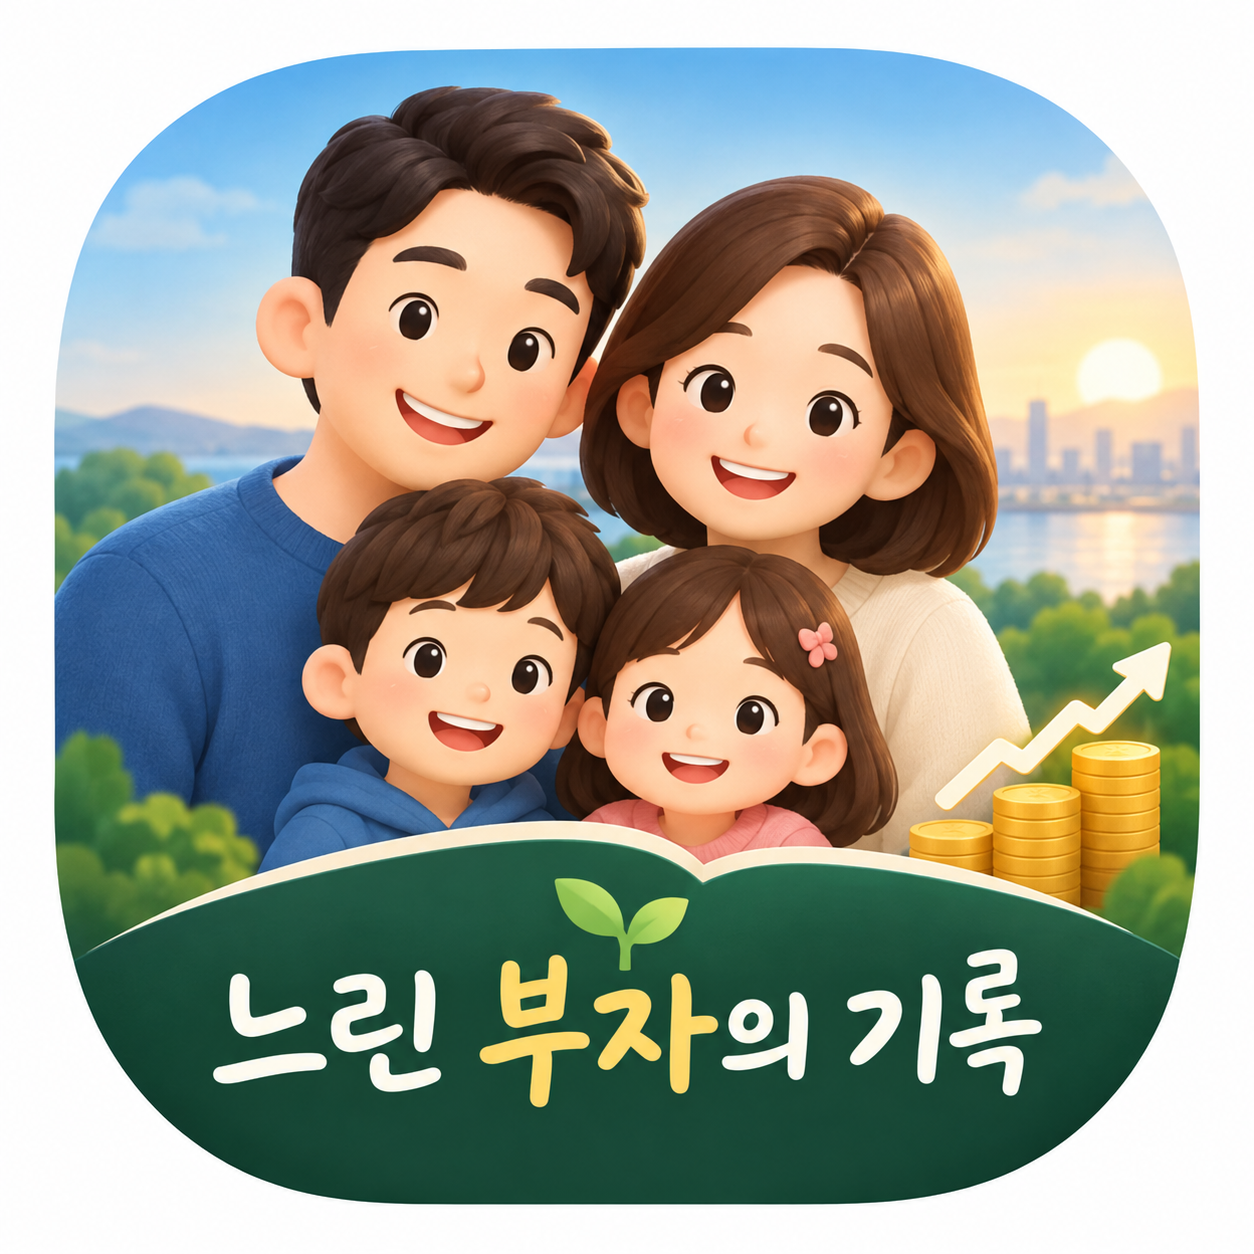
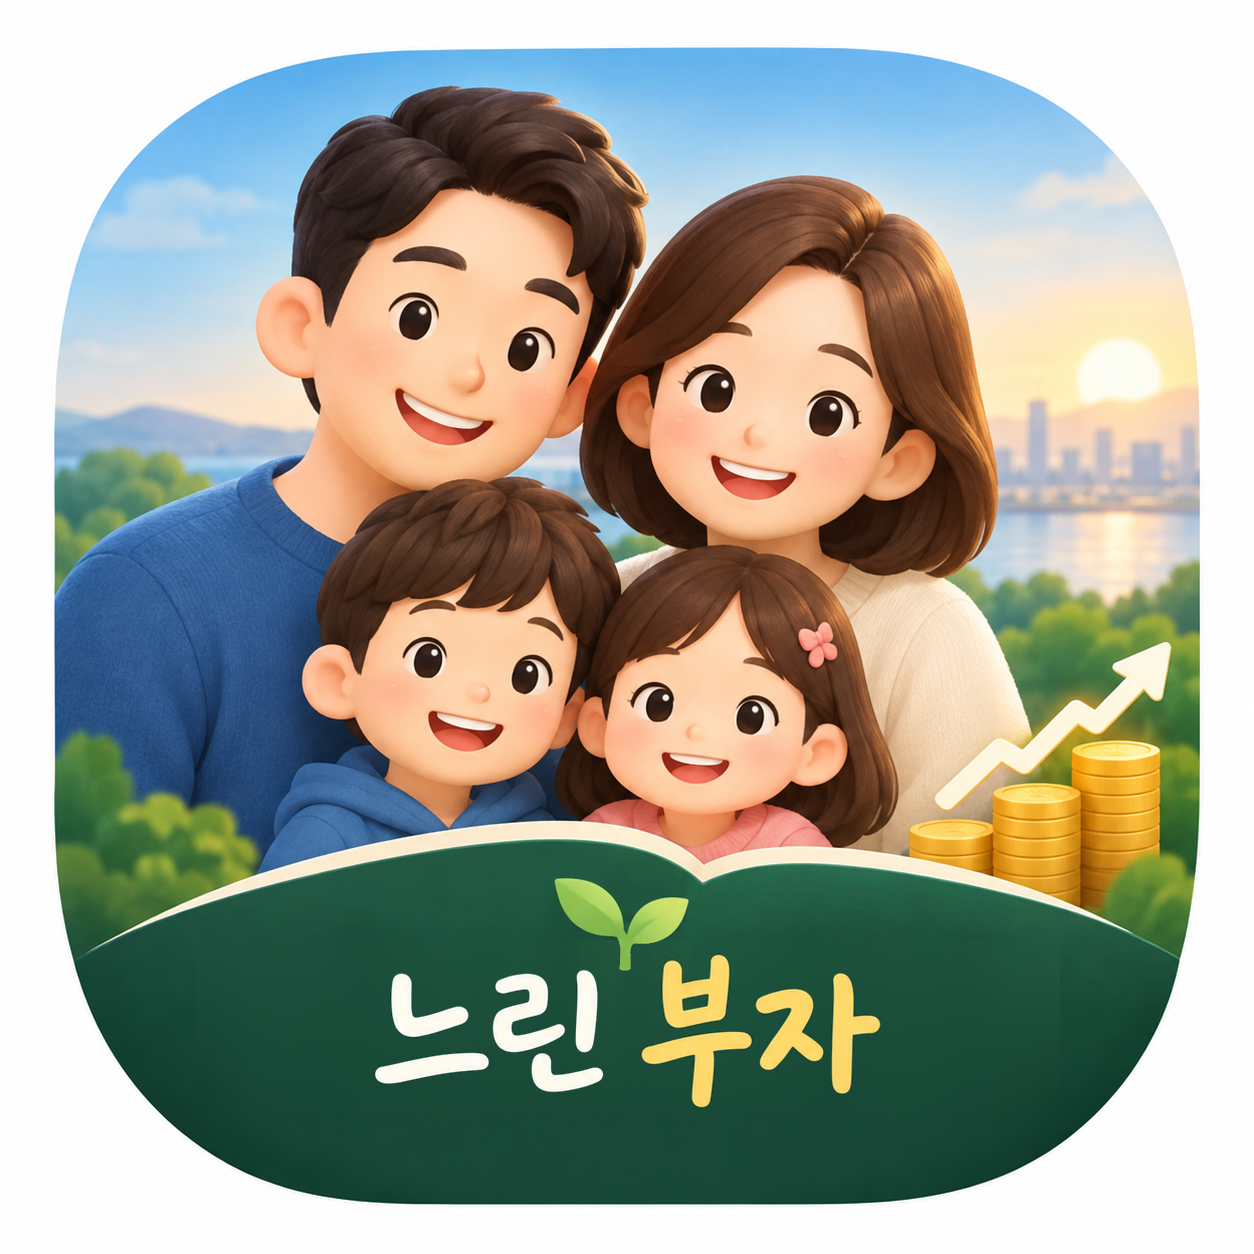
184: 앱 이름을 "느린 부자" 로 — "느린" 시리즈의 첫째
사용자 결정 (2026-09-24). 앞으로 만드는 앱을 "느린" 으로 묶는다 —
느린 부자 · 느린 여백 · 느린 나이테. 셋 다 "~의 기록" 이 붙으면 시리즈가
아니라 같은 이름 셋이 되므로 꼬리를 뗀다.

- 표시 이름(CFBundleDisplayName) · 앱 안 다섯 자리(진단 정보 · 문의 메일
  제목 · 생체 인증 안내 · 월간 회고 카드 · 1페이지 바닥) · 문서 열넷
- 번들 ID(com.helpnara.slowrich)와 식별자(SlowRich)는 그대로 둔다.
  바꾸면 iCloud 컨테이너가 남남이 되고 TestFlight 설치본이 갈라진다
- 08-feedback 의 지난 항목은 옛 이름 그대로 — 그때의 기록이다

아이콘은 제목이 그림으로 박혀 있는데 그 서체가 없어서, 이미 그려진
"느린 부자" 글자를 오려 가운데로 옮기고 "의 기록" 자리를 배너 초록으로
메웠다. 절차와 좌표는 Tools/retitle-icon.py, 처음 받은 그림은
Tools/icon-source-original.png 로 남긴다. 일곱 자가 네 자가 되어
120px 미리보기에서도 글자가 읽힌다.

제출 전 사용자 몫 둘을 출시 일정 블록에 올렸다 — 키프리스 상표 재검색
(09-11 검색은 옛 이름 기준), App Store Connect 앱 이름 변경.

Claude-Session: https://claude.ai/code/session_013o4pP25wnL1hHFb6SK28oN

Changed region(s): [[0.1555, 0.7464, 0.8397, 0.9019]]

diff --git a/App/Services/AppLock.swift b/App/Services/AppLock.swift
@@ -131,7 +131,7 @@ final class AppLock {
         case .passcodeNotSet:
             return "기기에 암호가 설정돼 있지 않아 본인 확인을 할 수 없습니다."
         case .biometryNotAvailable:
-            return "\(biometryLabel) 를 쓸 수 없습니다. 설정 → 느린 부자의 기록 에서 권한을 확인해 주세요."
+            return "\(biometryLabel) 를 쓸 수 없습니다. 설정 → 느린 부자 에서 권한을 확인해 주세요."
         case .authenticationFailed:
             return "확인하지 못했습니다. 다시 시도해 주세요."
         default:

diff --git a/App/Features/Dashboard/TrajectoryChart.swift b/App/Features/Dashboard/TrajectoryChart.swift
@@ -10,7 +10,7 @@ import SwiftUI
 ///
 /// **Y축은 선형이고 0에서 시작한다** (docs/08-feedback.md 31번).
 /// 한때 로그였는데, 그 축은 일정 비율 성장을 **직선으로 펴 버린다** —
-/// `느린 부자의 기록` 이라는 이름 그대로 느림이 쌓여 휘는 순간을 보려고 만든
+/// `느린 부자` 라는 이름 그대로 느림이 쌓여 휘는 순간을 보려고 만든
 /// 그래프가 정작 그 휘어짐을 지우고 있었다.
 ///
 /// 선형의 값은 대신 **앞 10년이 바닥에 눌리는 것**이다. 은퇴까지 63억을

diff --git a/App/Services/DiagnosticReport.swift b/App/Services/DiagnosticReport.swift
@@ -17,7 +17,7 @@ enum DiagnosticReport {
     static func build(in context: NSManagedObjectContext) async -> String {
         var lines: [String] = []
         let device = UIDevice.current
-        lines.append("느린 부자의 기록 \(MoreView.versionText)")
+        lines.append("느린 부자 \(MoreView.versionText)")
         lines.append("iOS \(device.systemVersion) · \(device.model) · \(Locale.current.identifier) · \(TimeZone.current.identifier)")
         lines.append("찍은 때: \(Date.now.formatted(date: .abbreviated, time: .shortened))")
         lines.append("")

diff --git a/App/Features/Settings/OnePagerSettingsView.swift b/App/Features/Settings/OnePagerSettingsView.swift
@@ -24,7 +24,7 @@ struct OnePagerSettingsView: View {
                 } header: {
                     Text("문서 제목")
                 } footer: {
-                    Text("1페이지 맨 위와 PDF 파일 이름에 쓰입니다. 앱 이름(`느린 부자의 기록`)과는 다른 값입니다 — 이건 문서의 제목입니다.")
+                    Text("1페이지 맨 위와 PDF 파일 이름에 쓰입니다. 앱 이름(`느린 부자`)과는 다른 값입니다 — 이건 문서의 제목입니다.")
                 }
 
                 Section {

diff --git a/App/Services/SupportContact.swift b/App/Services/SupportContact.swift
@@ -17,7 +17,7 @@ enum SupportContact {
         components.scheme = "mailto"
         components.path = email
         components.queryItems = [
-            URLQueryItem(name: "subject", value: "느린 부자의 기록 \(version) 문의"),
+            URLQueryItem(name: "subject", value: "느린 부자 \(version) 문의"),
             URLQueryItem(name: "body", value: "\n\n— 앱 \(version) · iOS \(ProcessInfo.processInfo.operatingSystemVersionString)"),
         ]
         return components.url

diff --git a/App/Features/Settings/OnePagerView.swift b/App/Features/Settings/OnePagerView.swift
@@ -515,7 +515,7 @@ struct OnePagerView: View {
                     .foregroundStyle(Paper.faint)
                 Spacer(minLength: 6)
                 // 남에게 건네는 종이에 앱 이름 한 줄 (docs/10 §3-5).
-                Text("느린 부자의 기록")
+                Text("느린 부자")
                     .font(.system(size: 6, weight: .medium))
                     .foregroundStyle(Paper.muted)
             }

diff --git a/App/Features/History/RetrospectiveView.swift b/App/Features/History/RetrospectiveView.swift
@@ -297,7 +297,7 @@ struct RetrospectiveCard: View {
     private var signature: some View {
         HStack {
             Spacer()
-            Text("느린 부자의 기록")
+            Text("느린 부자")
                 .font(.scaled(9, weight: .medium))
                 .foregroundStyle(muted)
         }

diff --git a/Tools/retitle-icon.py b/Tools/retitle-icon.py
@@ -1,0 +1,116 @@
+#!/usr/bin/env python3
+"""아이콘 그림에 박힌 제목을 `느린 부자의 기록` → `느린 부자` 로 고친다.
+
+    python3 Tools/retitle-icon.py
+
+`Tools/icon-source-original.png`(처음 받은 그림) 을 읽어
+`Tools/icon-source.png` 로 쓴다. 그 다음 `Tools/make-icon.py` 가 앱 아이콘을 굽는다.
+
+── 왜 이렇게 했나 ───────────────────────────────────────────────
+2026-09-24 에 앱 이름을 `느린 부자` 로 줄였는데 (`느린` 시리즈), 아이콘 띠에
+제목이 그림으로 박혀 있었다. 같은 서체·같은 굵기로 다시 쓰려면 원본 서체가
+필요한데 그것이 없다. 그래서 **이미 그려져 있는 `느린 부자` 글자를 그대로
+오려서 가운데로 옮기고, `의 기록` 이 있던 자리는 배너 초록으로 메웠다.**
+서체가 바뀌지 않는 유일한 방법이다.
+
+── 하는 일 ─────────────────────────────────────────────────────
+1. 글자 줄(y 940~1112)에서 `느린 부자`(x 200~720) 를 조각으로 떠 둔다.
+   초록이 아닌 픽셀만 고르므로 배경은 딸려오지 않는다.
+2. 글자 줄 전체(x 195~1060)를 배너 초록으로 덮는다. 색은 줄 위아래의
+   깨끗한 줄을 **가로로 뭉갠 뒤 세로로 선형 보간**해서 만든다 — 한 줄의
+   중앙값으로 평평하게 칠하면 덮은 자리가 네모로 비치고, 한 픽셀씩 그대로
+   쓰면 잡티가 세로줄로 번진다. 둘 다 실제로 겪고 나서 이 방법으로 왔다.
+3. 조각을 오른쪽으로 162px 옮겨 붙인다. 옮긴 뒤 글자 가운데가 배너 가운데
+   (x 627) 에 온다. **같은 줄로 옮기기 때문에** 배경의 세로 그라데이션이
+   그대로 맞아 이음매가 보이지 않는다.
+4. 새싹은 원래 제목 전체의 가운데에 있었다 — 새 제목도 같은 가운데라서
+   **움직이지 않는다.** 다만 줄기가 글자 줄까지 내려와 2번에서 지워지므로
+   제자리에 다시 그린다 (밝은 초록만 골라서).
+
+── 숫자를 고쳐야 한다면 ─────────────────────────────────────────
+원본 그림이 바뀌면 아래 좌표는 전부 무효다. 그때는 글자 덩어리의 x 범위를
+다시 재고 (밝은 픽셀의 열 분포를 보면 덩어리가 갈라진다) 여기에 적는다.
+
+의존성: Pillow, numpy
+"""
+
+from pathlib import Path
+
+import numpy as np
+from PIL import Image
+
+SOURCE = Path("Tools/icon-source-original.png")
+OUTPUT = Path("Tools/icon-source.png")
+
+TOP, BOT = 940, 1112        # 글자 잉크가 있는 줄 (실제 잉크는 949~1107)
+LEFT, RIGHT = 195, 1060     # 지울 가로 범위 — `느` 왼쪽부터 `록` 오른쪽까지
+KEEP_L, KEEP_R = 200, 720   # 남길 조각 = `느린 부자` (`자`와 `의` 사이 골짜기가 718~721)
+SHIFT = 162                 # 오른쪽으로 옮길 양 = (627 - (213+718)/2) 의 반올림
+STEM = (606, 672, 976)      # 제자리에 다시 그릴 새싹 줄기 (x 시작, x 끝, y 끝)
+SMOOTH = 41                 # 배경 기준 줄을 가로로 뭉갤 폭
+
+
+def main() -> None:
+    image = np.array(Image.open(SOURCE).convert("RGB")).astype(np.int16)
+    red, green = image[:, :, 0], image[:, :, 1]
+    is_background = green > red + 25            # 배너 초록 + 새싹 초록
+    is_sprout = (green > 130) & (green > red + 30)   # 새싹 초록만
+    is_letter = ~is_background
+
+    assert is_letter[TOP:BOT, LEFT - 25:LEFT].sum() == 0, "지울 범위 왼쪽 바로 밖에 글자가 있다"
+    assert is_letter[TOP:BOT, RIGHT:RIGHT + 25].sum() == 0, "지울 범위 오른쪽 바로 밖에 글자가 있다"
+
+    patch = image[TOP:BOT, KEEP_L:KEEP_R].copy()
+    mask = is_letter[TOP:BOT, KEEP_L:KEEP_R]
+    grown = mask.copy()                         # 안티에일리어싱 자락 한 픽셀까지
+    grown[1:, :] |= mask[:-1, :]
+    grown[:-1, :] |= mask[1:, :]
+    grown[:, 1:] |= mask[:, :-1]
+    grown[:, :-1] |= mask[:, 1:]
+
+    stem_l, stem_r, stem_bot = STEM
+    stem = image[TOP:stem_bot, stem_l:stem_r].copy()
+    stem_mask = is_sprout[TOP:stem_bot, stem_l:stem_r]
+
+    top_reference = background_row(image, is_background, is_sprout, TOP - 9)
+    bottom_reference = background_row(image, is_background, is_sprout, BOT + 5)
+    span = (BOT + 7) - (TOP - 7)
+    for y in range(TOP, BOT):
+        t = (y - (TOP - 7)) / span
+        image[y, LEFT:RIGHT] = np.rint(top_reference * (1 - t) + bottom_reference * t)
+
+    image[TOP:BOT, KEEP_L + SHIFT:KEEP_R + SHIFT][grown] = patch[grown]
+    image[TOP:stem_bot, stem_l:stem_r][stem_mask] = stem[stem_mask]
+
+    Image.fromarray(image.astype(np.uint8)).save(OUTPUT)
+    print(f"{OUTPUT} 를 썼습니다 — 이어서 `python3 Tools/make-icon.py`")
+
+
+def background_row(image, is_background, is_sprout, start):
+    """`start` 부터 다섯 줄의 배너 색을 뽑아 가로로 뭉갠다.
+
+    새싹이 걸린 칸은 그 줄의 중앙값으로 바꾼다 — 안 그러면 밝은 초록이
+    아래로 번져 세로줄이 된다.
+    """
+    width = RIGHT - LEFT
+    total = np.zeros((width, 3))
+    count = np.zeros((width, 1))
+    for y in range(start, start + 5):
+        usable = (is_background[y, LEFT:RIGHT] & ~is_sprout[y, LEFT:RIGHT])[:, None]
+        total += image[y, LEFT:RIGHT] * usable
+        count += usable
+    seen = count[:, 0] > 0
+    middle = np.median(total[seen] / count[seen], axis=0)
+    row = np.where(count > 0, total / np.maximum(count, 1), middle)
+
+    kernel = np.ones(SMOOTH) / SMOOTH
+    pad = SMOOTH // 2
+    return np.stack(
+        [np.convolve(np.pad(row[:, c], pad, mode="edge"), kernel, "same")[pad:-pad]
+         for c in range(3)],
+        axis=1,
+    )
+
+
+if __name__ == "__main__":
+    main()

diff --git a/Tools/site/build.py b/Tools/site/build.py
@@ -21,7 +21,7 @@ ROOT = Path(__file__).resolve().parents[2]
 SOURCE = ROOT / "docs" / "privacy-policy.md"
 OUT = Path(sys.argv[1] if len(sys.argv) > 1 else ROOT / "_site")
 
-APP_NAME = "느린 부자의 기록"
+APP_NAME = "느린 부자"
 SUPPORT_EMAIL = "kyunglagkwon@gmail.com"
 ISSUES_URL = "https://github.com/helpnara/Asset-management/issues"
 

diff --git a/docs/10-store-strategy.md b/docs/10-store-strategy.md
@@ -75,7 +75,7 @@ App Store 의 순위는 세 가지가 있고, 우리가 노릴 수 있는 것과
 | 2 | **1인 · 2인 사용자도 자연스럽게** | "우리 가족 노후자금 준비" 는 계획 제목이라 바꿀 수 있지만, 곳곳의 "가족" 이 혼자 쓰는 사람을 밀어낸다. 구성원 하나면 "가족 총자산" 을 "총자산" 으로 |
 | 3 | **위젯** — 잠금 화면 · 홈 화면 | "이번 주 적었나" · 계획선 대비 · 연속 주. 위젯은 재방문율을 올리고 에디터가 좋아한다. 서버가 없어도 된다 (App Group 으로 자료 공유) |
 | 4 | **리뷰 요청의 타이밍** | 4주 연속 달성 · 억 단위 넘김 같은 **축하 화면 직후**에 `SKStoreReviewController`. 아무 때나 띄우면 별 셋, 기쁜 순간에 띄우면 별 다섯 |
-| 5 | **공유 카드에 이름** | 월간 회고 카드 · 1페이지 이미지 맨 아래에 "느린 부자의 기록" 한 줄. 카톡으로 가족 · 친구에게 가는 그림이 광고다. 유일한 성장 경로다 |
+| 5 | **공유 카드에 이름** | 월간 회고 카드 · 1페이지 이미지 맨 아래에 "느린 부자" 한 줄. 카톡으로 가족 · 친구에게 가는 그림이 광고다. 유일한 성장 경로다 |
 | 6 | **접근성** | Dynamic Type · VoiceOver · 색만으로 뜻을 나르지 않기(증감에 +− 부호 이미 있음) |
 | 7 | **iPad** (로드맵 M7) | 에디터 추천은 iPad 지원을 본다. 1페이지는 iPad 가 제일 잘 어울린다 |
 | 8 | **영어** (G4, 사용자가 삭제) | 미국 세적 가족을 상정한 앱이라 언젠가 다시 나온다. 2.0 뒤 |
@@ -85,7 +85,7 @@ App Store 의 순위는 세 가지가 있고, 우리가 노릴 수 있는 것과
 
 ## 4. 이름 · 부제 · 키워드 — 검색 1위의 재료
 
-- **이름** `느린 부자의 기록` — 그대로. 검색어가 아니라 브랜드다.
+- **이름** `느린 부자` — 그대로. 검색어가 아니라 브랜드다.
 - **부제** (30자) 는 검색에 걸리는 자리다. 지금 `매주 토요일, 숫자 하나씩` 은
   예쁘지만 검색어가 없다. 제안: `노후 준비 · 은퇴 계획 · 가족 자산 궤적`
 - **키워드** (100자): `노후준비,은퇴계획,은퇴자금,가족자산,순자산,자산배분,연금,국민연금,파이어,재무계획,자산관리`
@@ -158,5 +158,5 @@ App Store 의 순위는 세 가지가 있고, 우리가 노릴 수 있는 것과
 3. 3절 여덟 가지 — **1.0 안에서 한다.**
 4. 출시 — **10월** (9월 테스트).
 5. 공유 카드의 앱 이름 한 줄 — 뜻: 월간 회고 카드 · 1페이지를 카톡으로 보낼 때
-   그 **그림 맨 아래에 "느린 부자의 기록" 작은 글씨**가 찍히는 것. 받는 사람이
+   그 **그림 맨 아래에 "느린 부자" 작은 글씨**가 찍히는 것. 받는 사람이
    앱 이름을 알게 되는 유일한 경로다 (광고가 없으니). **동의** (09-11, 130번).
